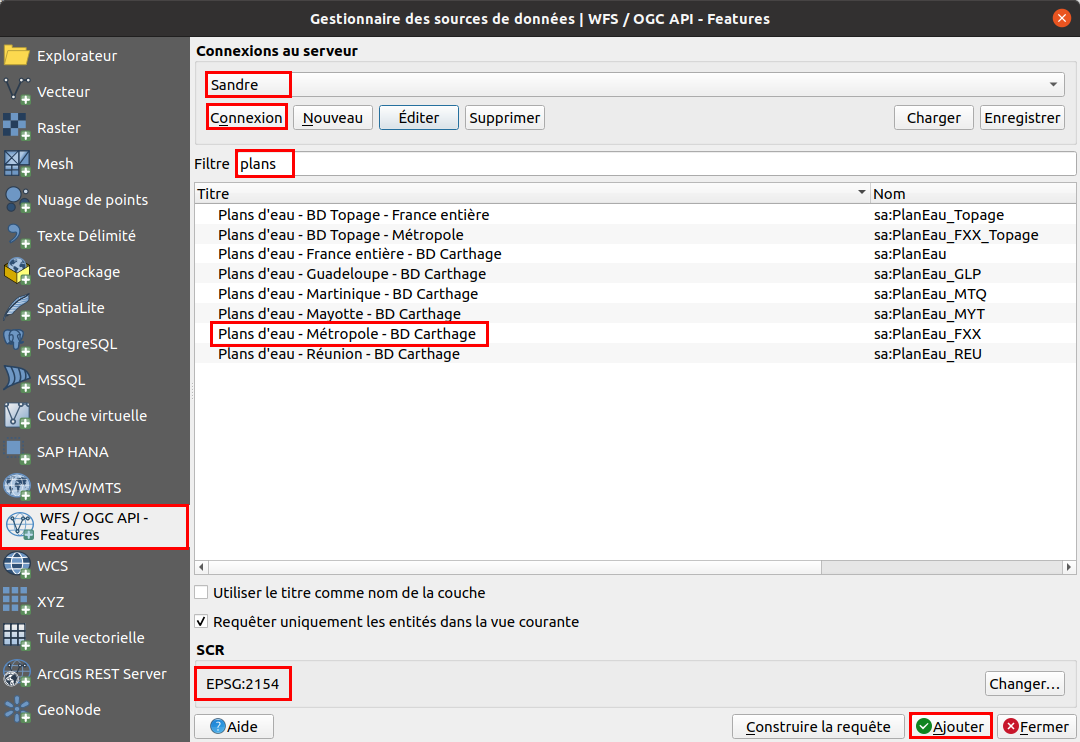
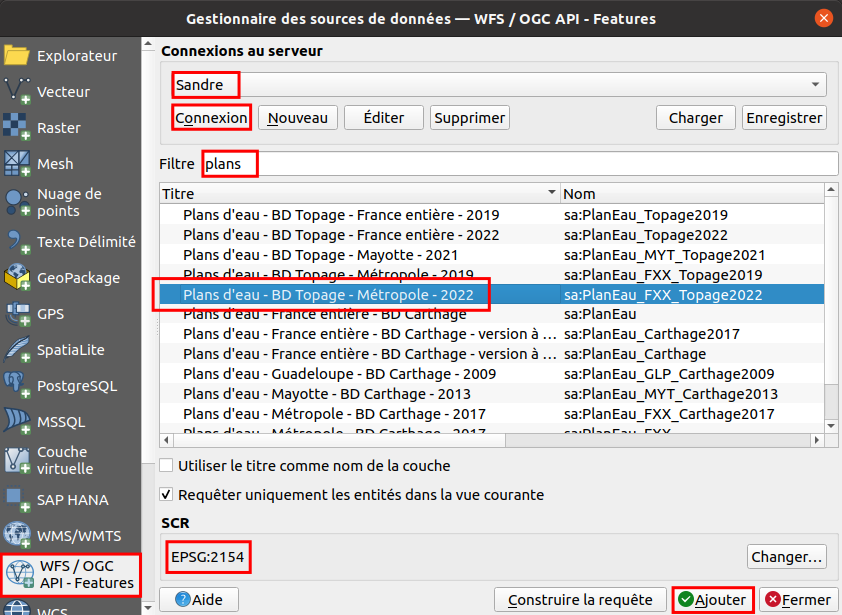
retours Thierry Feuillet flux

Changed region(s): [[0.0, 0.0, 1.0, 1.0], [0.5867, 0.865, 1.0, 1.0], [0.772, 0.7724, 0.9572, 0.8033]]

diff --git a/03_02_donnees_flux.php b/03_02_donnees_flux.php
@@ -55,8 +55,9 @@
 					</figure>
 					<ul>
 						<li class="espace"><b>Nom :</b> tapez le nom de votre choix, par exemple BRGM</li>
-						<li class="espace"><b>URL :</b> tapez l’URL suivante, qui correspond à l'adresse du serveur WMS du BRGM : http://geoservices.brgm.fr/geologie</li>
+						<li class="espace"><b>URL :</b> tapez l’URL suivante, qui correspond à l'adresse du serveur WMS du BRGM : https://geoservices.brgm.fr/geologie</li>
 					</ul>
+					<p class="note">Les adresses des flux produits par le <a class="ext" target="_blank" href="https://www.brgm.fr/" >Bureau des Recherches Géologiques et Minières (BRGM)</a> sont disponibles <a class="ext" target="_blank" href="https://infoterre.brgm.fr/page/geoservices-ogc" >ici</a>.</p>
 					<p>Laissez les autres paramètres tels quels et cliquez sur <b>OK</b>. Vous voilà à nouveau dans la fenêtre d'ajout d'une couche WMS :</p>
 					<ul>
 						<li class="espace">Après avoir vérifié que votre connexion est bien sélectionnée dans la liste déroulante en haut de la fenêtre, cliquez sur <b>Connexion</b></li>
@@ -113,7 +114,7 @@
 					</figure>
 					<ul>
 						<li class="espace">Après avoir vérifier que votre connexion est bien sélectionnée dans la liste déroulante en haut de la fenêtre, cliquez sur <b>Connexion</b></li>
-						<li class="espace">En vous aidant éventuellement d'un filtre (<b>plans</b>), sélectionnez la couche correspondant aux <b>Plans d'eau - Métropole - BD Carthage</b></li>
+						<li class="espace">En vous aidant éventuellement d'un filtre (<b>plans</b>), sélectionnez la couche correspondant aux <b>Plans d'eau - BD Topage - Métropole - 2022</b></li>
 						<li class="espace">Vérifiez que le SCR soit bien le Lambert 93 RGF93 (code EPSG 2154) afin que toutes nos couches aient le même SCR, en cliquant éventuellement sur le bouton <b>Changer...</b></li>
 						<li class="espace">Cliquez sur <b>Ajouter</b></li>
 					</ul>
